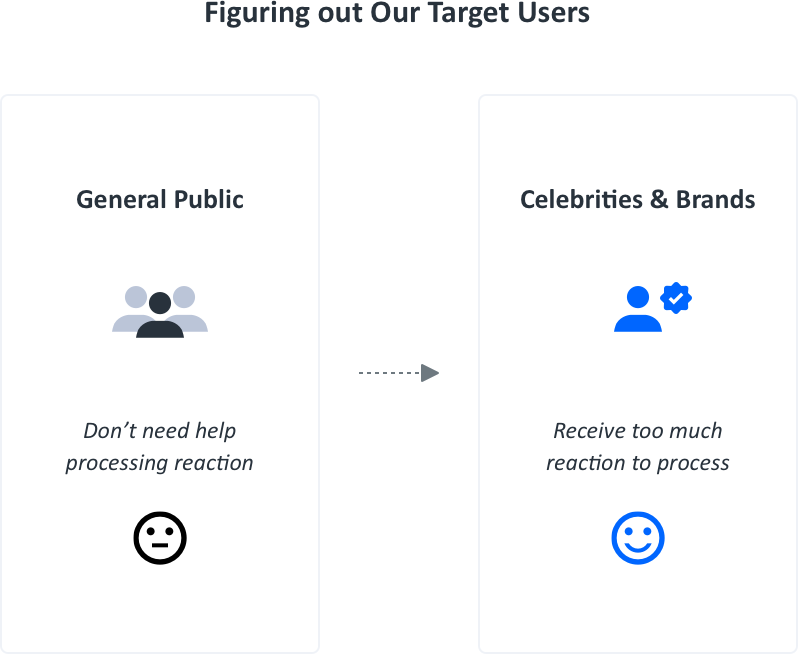
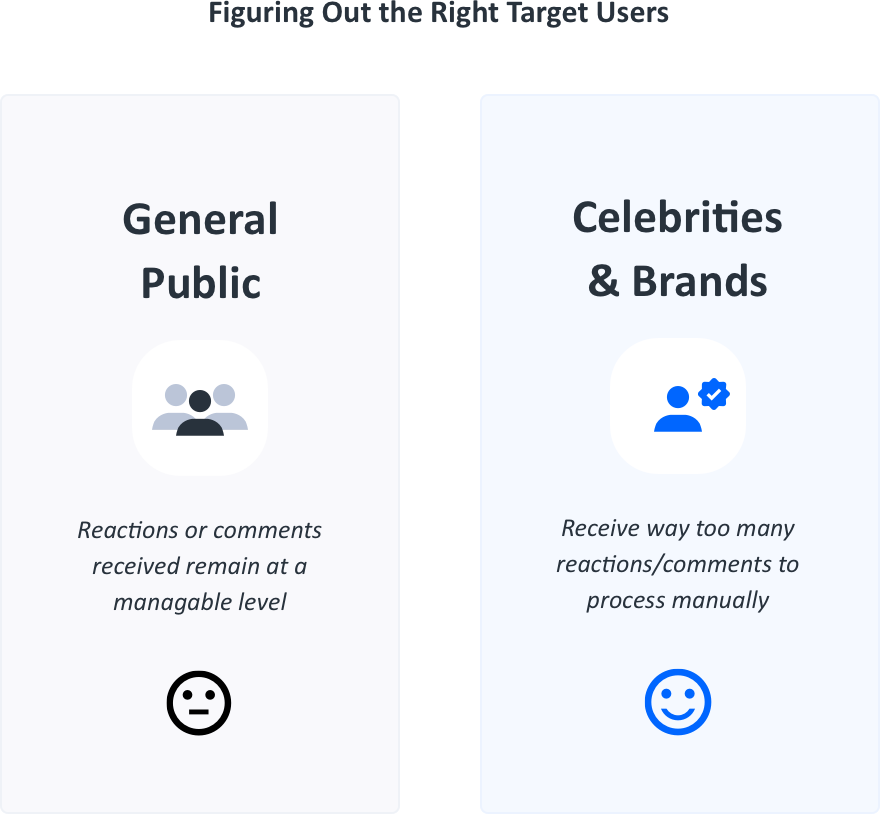
no message

diff --git a/portfolio/css/main.css b/portfolio/css/main.css
@@ -419,7 +419,7 @@ img {
 }
 
 .img_targetuser {
-  max-width: 399px;
+  max-width: 440px;
   display: block;
   margin-left: auto;
   margin-right: auto;
@@ -432,6 +432,11 @@ img {
 .section_green {
   height: auto;
   background-image: linear-gradient(-180deg, #E5FDFF 0%, #D4F5F7 100%);
+}
+
+.section_gray {
+  height: auto;
+  background-color: #F9F9FC;
 }
 
 .section_dark {
@@ -524,4 +529,4 @@ img {
   padding-top: 20px;
 }
 
[2 lines of base64/hex data omitted]

diff --git a/portfolio/pages/work/poptip_qustions.html b/portfolio/pages/work/poptip_qustions.html
@@ -56,12 +56,12 @@
     <div class="section_dark"> 
       <div class="content">
         <div class="text_content">
-          <h2 class="text-color-white paragraph_title font-weight-bold">The Problem: No Effective Way to Listen</h2>
+          <h2 class="text-color-white paragraph_title font-weight-bold">The Problem</h2>
           <p class="text-color-white font-weight-light paragraph_content">
             Despite the massive increase in twitter & facebook usage, the conversation remained one way. As a poster, sharing became easier than ever but there was no real effective way to listen to one’s audience.
           </p>
           <div class="quote text-color-white padding_bottom_m">
-            You can count likes and favorites, but when it comes to comments, the tally gets lost after a certain number.
+            You can count likes and favorites, but once you get to comments it's a blackhole. <br> Keeping up becomes impossible after a certain point.
           </div>
         </div>
       </div>
@@ -78,26 +78,28 @@
         <div class="above-image images padding_top_m padding_bottom_m">
           <img class="padding_bottom img_targetuser" src="../../assets/questions_targetuser.png" alt="Questions User Product Flow">
         </div>
-        <div class="quote padding_top_l padding_bottom_m">Time 100, Bravo TV, CNN Crossfire, Budweiser, etc...
+        <div class="quote padding_top_l padding_bottom_m">Time 100, Bravo TV, CNN Crossfire, Budweiser, Reporters, News Broadcasters, etc...
         </div>
         <p class="paragraph_content padding_top_l">
-          These were the users who had the strong desire to communicate with their audience, yet have the most difficulty in finding an effective way to listen to their audience due to the sheer amount of reaction they'd receive.
+          These were the users who had the strong desire to communicate with their audience, yet had the most difficulty in finding an effective way to listen to their audience due to the sheer amount of reaction they'd receive.
         </p>
       </div>
     </div>
 
-    <div class="hline"></div>
 
-    <div class="content">
-      <div class="text_content">
-        <h2 class="padding_top_l paragraph_title font-weight-bold">Pain Points</h2>
-        <p class="paragraph_content">
-          1. Our core users have the unique problem of receiving too many reactions to manually analyze. <br>  2. It is cumbersom to manage multiple social media platform. The desire for a single platform to manage their social media activity. <br> 3. 
-        </p>
+<!-- Pain Points -->
+
+    <div class="section_gray">
+      <div class="content">
+        <div class="text_content">
+          <h2 class="padding_top_l paragraph_title font-weight-bold">Identifying Pain Points</h2>
+          <p class="paragraph_content">
+            1. Our core users have the unique problem of receiving too many reactions to manually analyze. <br>  2. It is cumbersom to manage multiple social media platform. The desire for a single platform to manage their social media activity. <br> 3. 
+          </p>
+        </div>
       </div>
     </div>
 
-    <div class="hline"></div>
 
     <div class="content">
       <div class="text_content">
@@ -135,7 +137,7 @@
       <div class="content">
         <div class="image_content">
           <img src="../../assets/questions_sports.png">
-          <h5>Showing Updating Results After Posting Question</h5>
+          <h5>Collaboration with Twitter Featuring a Polling Twitter Card</h5>
         </div>
       </div>
     </div>

diff --git a/portfolio/sass/pages/_poptip_questions.sass b/portfolio/sass/pages/_poptip_questions.sass
@@ -18,7 +18,7 @@ img
     right: auto
 
 .img_targetuser
-  max-width: 399px
+  max-width: 440px
   display: block
   margin:
     left: auto
@@ -31,6 +31,10 @@ img
 .section_green
   height: auto
   background-image: linear-gradient(-180deg, #E5FDFF 0%, #D4F5F7 100%)
+
+.section_gray
+  height: auto
+  background-color: #F9F9FC
 
 .section_dark
   height: auto
